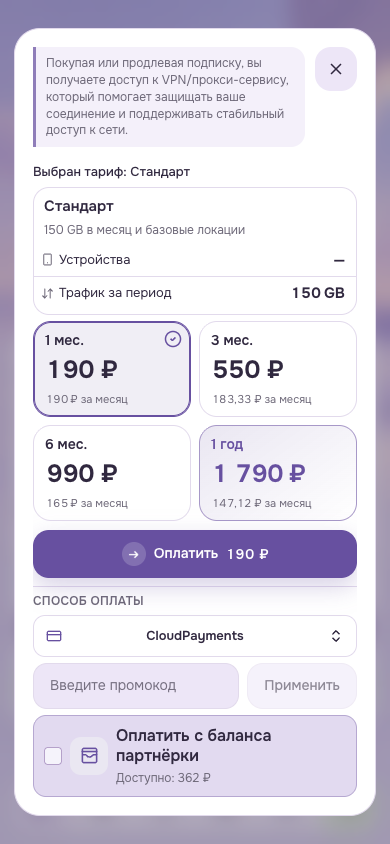
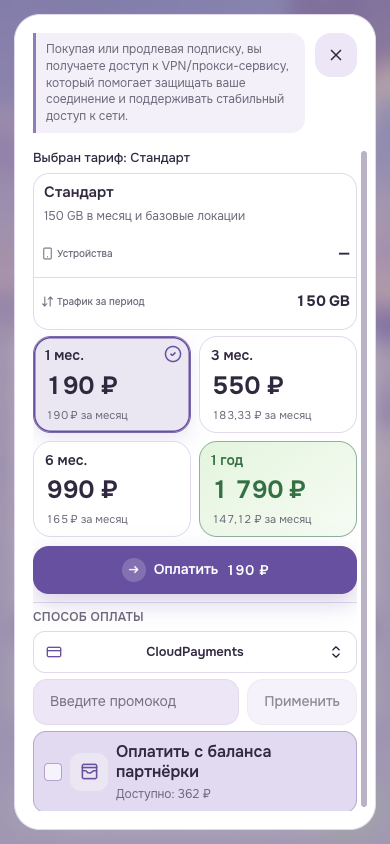
Refine tariff selection and inactive states

Changed region(s): [[0.0308, 0.0, 0.9846, 0.9858], [0.8308, 0.7393, 0.8923, 0.7701]]

diff --git a/style.css b/style.css
@@ -490,27 +490,27 @@
   text-align: left;
 }
 .theme-key-avio-landing .period-card.active {
-  border-color: var(--accent);
-  background: color-mix(in srgb, var(--accent) 10%, var(--panel));
-  box-shadow: inset 0 0 0 1px var(--accent);
+  border-color: color-mix(in srgb, var(--accent) 82%, var(--border));
+  background: color-mix(in srgb, var(--accent) 14%, var(--panel));
+  box-shadow: 0 8px 20px color-mix(in srgb, var(--accent) 14%, transparent), inset 0 0 0 1.5px var(--accent);
 }
 .theme-key-avio-landing .period-grid .period-card:nth-child(4) {
   position: relative;
   overflow: hidden;
-  border-color: color-mix(in srgb, var(--accent) 48%, var(--border));
-  background: linear-gradient(145deg, color-mix(in srgb, var(--accent) 14%, var(--panel)), color-mix(in srgb, var(--panel) 92%, transparent));
+  border-color: color-mix(in srgb, #4f9460 58%, var(--border));
+  background: linear-gradient(145deg, color-mix(in srgb, #dff3d8 86%, var(--panel)), color-mix(in srgb, #f5fbf2 84%, var(--panel)));
 }
 .theme-key-avio-landing .period-grid .period-card:nth-child(4) strong,
 .theme-key-avio-landing .period-grid .period-card:nth-child(4) > span,
 .theme-key-avio-landing .period-grid .period-card:nth-child(4) .promo-price-pair {
-  color: var(--accent);
+  color: #347044;
 }
 .theme-key-avio-landing .period-grid .period-card:nth-child(4)::before {
   content: "";
   position: absolute;
   inset: 0;
   pointer-events: none;
-  background: linear-gradient(110deg, transparent 25%, color-mix(in srgb, var(--accent-contrast) 42%, transparent) 48%, transparent 70%);
+  background: linear-gradient(110deg, transparent 25%, color-mix(in srgb, #fff 68%, transparent) 48%, transparent 70%);
   transform: translateX(-125%);
   animation: avio-year-shine 4.8s ease-in-out infinite;
 }
@@ -867,33 +867,28 @@ html.theme-key-avio-landing :is(.install-platform-item, .language-select-item, .
 /* Home CTAs and inactive subscription state. */
 .theme-key-avio-landing .home-bottom .status-card-inactive {
   padding: 12px 14px;
-  border: 1px solid color-mix(in srgb, #d59521 46%, var(--border));
+  border: 1px solid color-mix(in srgb, #c74359 52%, var(--border));
   border-radius: 18px;
-  background: linear-gradient(135deg, color-mix(in srgb, #ffd875 26%, var(--panel)), color-mix(in srgb, #fff4d6 74%, var(--panel)));
+  background: linear-gradient(135deg, color-mix(in srgb, #ffdce2 78%, var(--panel)), color-mix(in srgb, #fff3f5 84%, var(--panel)));
   box-shadow: inset 0 1px 0 color-mix(in srgb, #fff 72%, transparent);
 }
 .theme-key-avio-landing .sub-status-inactive {
-  color: #8a5a00;
+  color: #a72f46;
 }
 .theme-key-avio-landing .sub-status-inactive > svg {
   display: none;
 }
 .theme-key-avio-landing .sub-status-inactive::before {
-  content: "!";
+  content: "";
   display: inline-grid;
-  width: 32px;
-  height: 32px;
-  flex: 0 0 32px;
+  width: 34px;
+  height: 34px;
+  flex: 0 0 34px;
   place-items: center;
-  border: 2px solid currentColor;
-  border-radius: 999px;
-  background: color-mix(in srgb, #fff 62%, transparent);
-  font-size: 20px;
-  font-weight: 750;
-  line-height: 1;
+  background: url("images/subscription-off.png") center / contain no-repeat;
 }
 .theme-key-avio-landing .home-bottom .status-card-inactive h2 {
-  color: #68470b;
+  color: #8f263b;
   font-size: 16px;
   font-weight: 650;
 }
@@ -992,18 +987,27 @@ html.theme-key-avio-landing :is(.install-platform-item, .language-select-item, .
   color: #e4a11b;
   font-size: .82em;
 }
+.theme-key-avio-landing .tariff-list .tariff-row.active {
+  border-color: var(--accent);
+  background: linear-gradient(145deg, color-mix(in srgb, var(--accent) 18%, var(--panel)), color-mix(in srgb, var(--accent) 7%, var(--panel)));
+  box-shadow: 0 10px 26px color-mix(in srgb, var(--accent) 20%, transparent), inset 0 0 0 2px color-mix(in srgb, var(--accent) 72%, transparent);
+}
+.theme-key-avio-landing .tariff-list .tariff-row.active .option-row-main > strong,
+.theme-key-avio-landing .tariff-list .tariff-row.active .option-row-meta > em {
+  color: var(--accent);
+}
 
 /* Compact tariff details with the back action beside the dialog close button. */
 .theme-key-avio-landing .webapp-payment-dialog:has(.back-inline) > .dialog-head-custom {
-  min-height: 36px;
+  min-height: 32px;
 }
 .theme-key-avio-landing .webapp-payment-dialog:has(.back-inline) .back-inline {
-  position: absolute;
-  z-index: 5;
-  top: 18px;
-  left: 18px;
-  min-height: 36px;
-  padding: 0 10px;
+  position: static;
+  z-index: auto;
+  width: fit-content;
+  min-height: 34px;
+  margin: 0 0 2px;
+  padding: 0 11px;
   border: 1px solid color-mix(in srgb, var(--accent) 22%, var(--border));
   border-radius: 12px;
   background: color-mix(in srgb, var(--panel-2) 78%, transparent);
@@ -1035,7 +1039,100 @@ html.theme-key-avio-landing :is(.install-platform-item, .language-select-item, .
   grid-row: 1;
 }
 .theme-key-avio-landing .checkout-tariff-fact {
-  min-height: 32px;
+  min-height: 48px;
+  justify-content: center;
+  gap: 4px;
+  padding: 6px;
+}
+.theme-key-avio-landing .checkout-tariff-fact .checkout-tariff-fact-label {
+  gap: 3px;
+}
+.theme-key-avio-landing .checkout-tariff-fact .checkout-addon-label {
+  display: -webkit-box;
+  overflow: hidden;
+  color: var(--muted);
+  font-size: 10px;
+  font-weight: 500;
+  line-height: 1.15;
+  -webkit-box-orient: vertical;
+  -webkit-line-clamp: 2;
+}
+.theme-key-avio-landing .checkout-tariff-fact > .checkout-addon-value {
+  color: var(--text);
+  font-size: 15px;
+  font-weight: 700;
+  line-height: 1.15;
+}
+.theme-key-avio-landing .checkout-tariff-editor-facts {
+  gap: 8px;
+}
+.theme-key-avio-landing .checkout-tariff-editor-fact {
+  gap: 6px;
+  padding: 9px 10px 7px;
+  border-radius: 14px;
+  background: color-mix(in srgb, var(--panel-2) 88%, transparent);
+}
+.theme-key-avio-landing .checkout-tariff-editor-copy {
+  align-items: center;
+}
+.theme-key-avio-landing .checkout-tariff-editor-title {
+  font-size: 13px;
+  font-weight: 600;
+}
+.theme-key-avio-landing .checkout-tariff-editor-copy small {
+  max-width: 48%;
+  overflow: visible;
+  font-size: 10px;
+  line-height: 1.2;
+  text-align: right;
+  text-overflow: clip;
+  white-space: normal;
+}
+
+/* Server status: keep the operational message readable on narrow screens. */
+.theme-key-avio-landing .server-status-card-action {
+  min-height: 64px;
+  padding: 10px 13px;
+}
+.theme-key-avio-landing .server-status-card-copy {
+  gap: 3px;
+}
+.theme-key-avio-landing .server-status-card-copy > strong {
+  color: var(--muted);
+  font-size: 11px;
+  font-weight: 600;
+  line-height: 1.2;
+}
+.theme-key-avio-landing .server-status-card-copy > small {
+  overflow: visible;
+  color: var(--text);
+  font-size: 14px;
+  font-weight: 650;
+  line-height: 1.22;
+  opacity: 1;
+  text-overflow: clip;
+  white-space: normal;
+}
+
+/* Inactive state on the Devices screen. */
+.theme-key-avio-landing .devices-inactive-card {
+  border-color: color-mix(in srgb, #c74359 52%, var(--border));
+  background: linear-gradient(135deg, color-mix(in srgb, #ffdce2 78%, var(--panel)), color-mix(in srgb, #fff3f5 84%, var(--panel)));
+  color: #8f263b;
+}
+.theme-key-avio-landing .devices-inactive-card > svg {
+  display: none;
+}
+.theme-key-avio-landing .devices-inactive-card::before {
+  content: "";
+  width: 38px;
+  height: 38px;
+  background: url("images/subscription-off.png") center / contain no-repeat;
+}
+.theme-key-avio-landing .devices-inactive-card > span {
+  color: #8f263b;
+  font-size: 16px;
+  font-weight: 650;
 }
 
 @keyframes avio-home-cta-breathe {
@@ -1079,8 +1176,7 @@ html.theme-key-avio-landing :is(.install-platform-item, .language-select-item, .
   }
   .theme-key-avio-landing .checkout-tariff-edit::after { display: none; }
   .theme-key-avio-landing .webapp-payment-dialog:has(.back-inline) .back-inline {
-    left: 14px;
-    max-width: calc(100% - 76px);
+    max-width: 100%;
     overflow: hidden;
     text-overflow: ellipsis;
     white-space: nowrap;

diff --git a/README.md b/README.md
@@ -1,9 +1,9 @@
 # Avio — Твой интернет
 
-Версия 1.5.4: заметное состояние неактивной подписки, анимированные кнопки оплаты,
-подключения устройства и продления. Продление выделено светло-зелёным цветом.
-В списке тарифов увеличен текст и визуально поднят текущий второй тариф «Премиум»;
-детальная карточка тарифа стала компактнее, а возврат к списку перенесён к крестику.
+Версия 1.5.5: красное состояние неактивной подписки с новой иконкой, зелёное
+выделение годового периода, заметный выбранный тариф и читаемый статус серверов.
+Возврат к списку снова прокручивается вместе с содержимым, сводка лимитов и
+редактор тарифа стали компактнее и удобнее на узком экране.
 
 Установить тему можно по адресу этого публичного репозитория или ZIP-архивом
 из раздела Releases.
@@ -24,6 +24,10 @@
 | Выбор тарифа | Настройки |
 | --- | --- |
 | <img src="screenshots/payment-mobile-light.png" width="260" alt="Выбор тарифа"> | <img src="screenshots/settings-mobile-light.png" width="260" alt="Настройки"> |
+
+| Неактивная подписка | Экран устройств без подписки |
+| --- | --- |
+| <img src="screenshots/home-inactive-mobile-light.png" width="260" alt="Неактивная подписка"> | <img src="screenshots/devices-inactive-mobile-light.png" width="260" alt="Экран устройств без подписки"> |
 
 Версия 1.3.0: единая поверхность главной с разделителями трафика, кнопки с
 радиусом 16 px, контрастная типографика, стеклянная навигация и короткие переходы.
